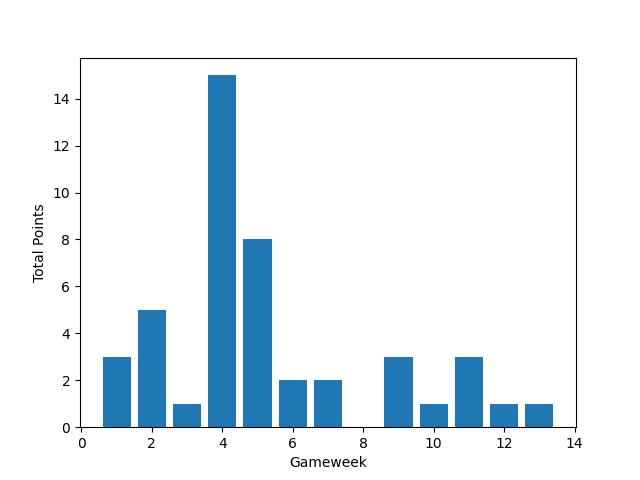
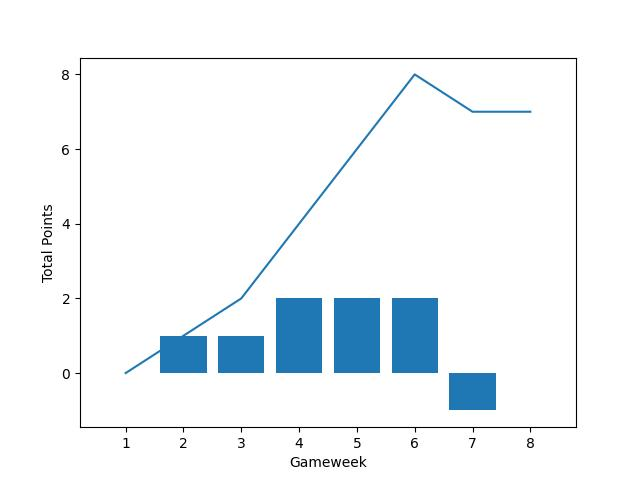
Added funcitonality to add total points line graph

diff --git a/web/templates/index.html b/web/templates/index.html
@@ -11,7 +11,7 @@
     <div class="body">
         <div class="form">
             <form method="POST"> 
-                Please tick if you want to add on to graph<input type="checkbox" name="addOn">
+                Add Total Points Line Graph? <input type="checkbox" name="addOn">
                 <select name="players" size="50">
                     {% for player in player_list %}
                     <option value="{{ player }}" selected>{{ player }}</option>

diff --git a/web/app.py b/web/app.py
@@ -71,11 +71,8 @@ def index():
 def my_form_post():
     #Obtain user's inputted player
     player_name = request.form['players']
-    print("HERE:")
-    print(player_name)
     player_id = fpl.find_player_id(database, player_name)
-    print("ID:")
-    print(player_id)
+
 
     gw_points, total_points = fpl.player_weekPoints(player_id)
     x_axis = range(1, len(total_points))
@@ -84,6 +81,8 @@ def my_form_post():
     plt.bar(x_axis, gw_points)
     plt.ylabel("Total Points")
     plt.xlabel("Gameweek")
+    if request.form.get("addOn") != None:
+        plt.plot(x_axis, total_points)
     plt.savefig('c:/Users/chira/Documents/Coding/FPL/web/static/plot.jpg')
     print(player_id)
     
